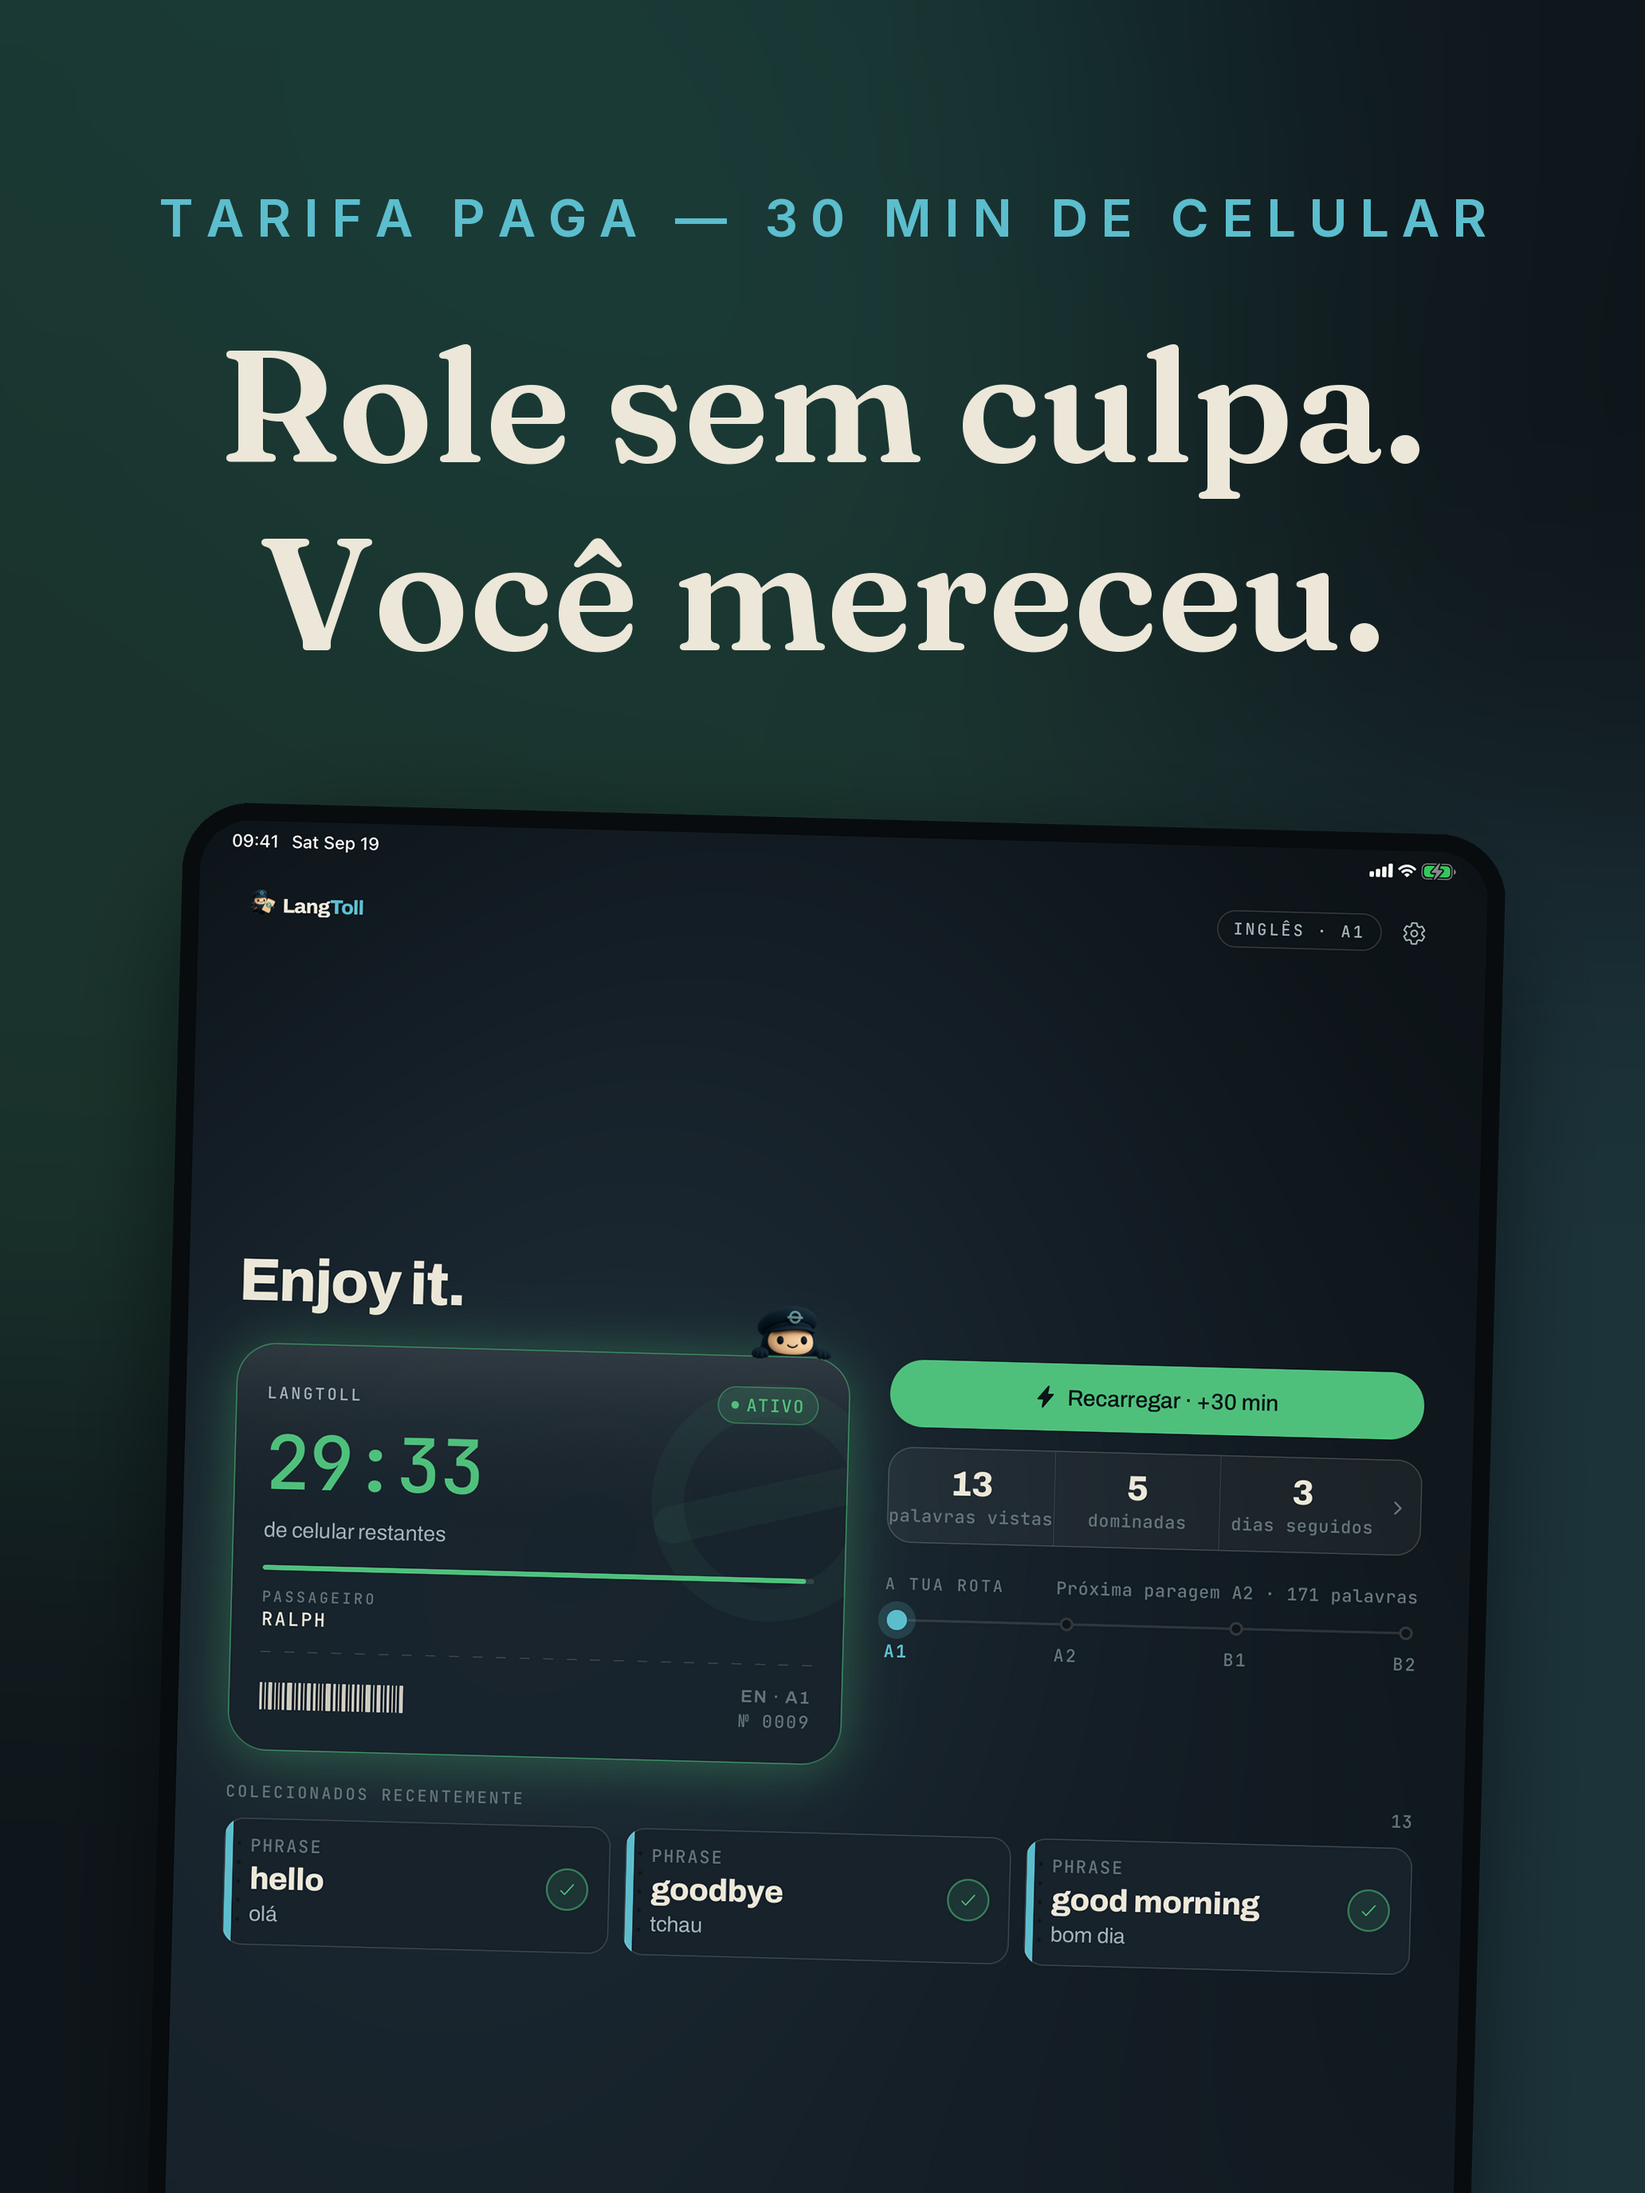
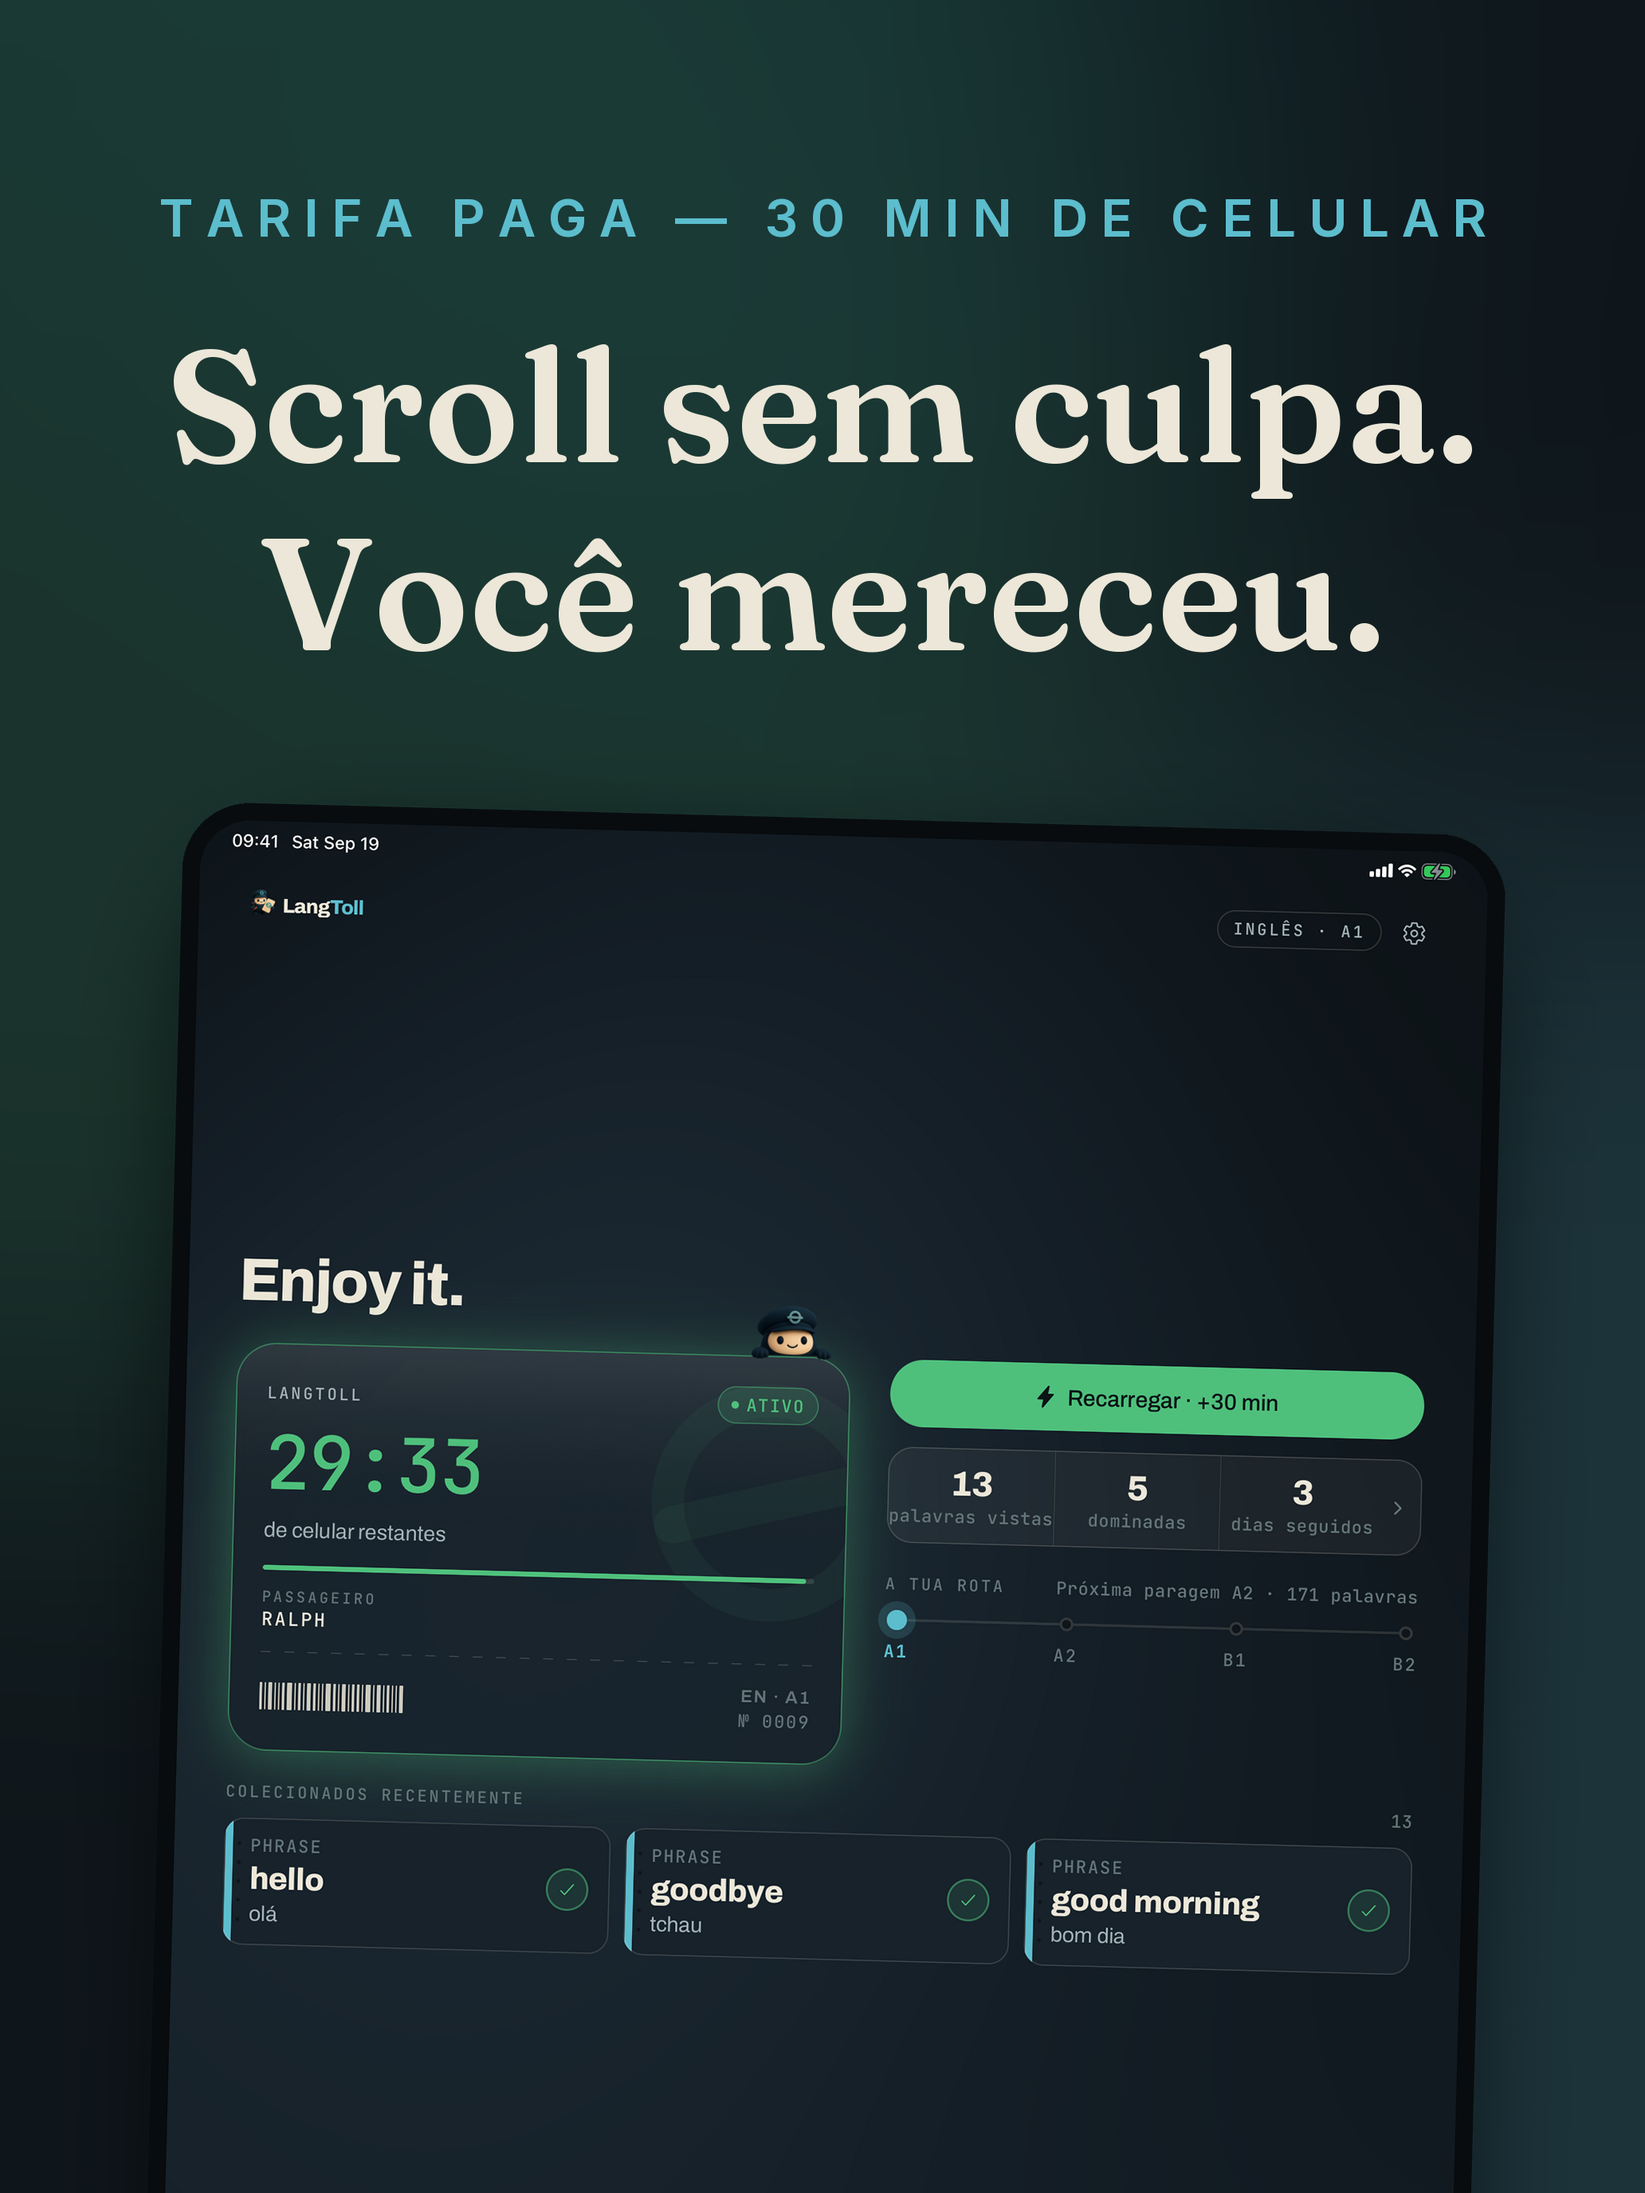
Store shots pt: "Scroll sem culpa" (was "Role sem culpa")
Claude-Session: https://claude.ai/code/session_01PwS6CHzCTzaJvz9zueakFw

Changed region(s): [[0.093, 0.1562, 0.5271, 0.2188], [0.5581, 0.1562, 0.8992, 0.25]]

diff --git a/langtoll-mobile/marketing/appstore/store_shots.py b/langtoll-mobile/marketing/appstore/store_shots.py
@@ -498,7 +498,7 @@ CAPTIONS = {
         "03_practice": ("frases inteiras desde o primeiro dia",
                         "Fale em frases,\nnão em palavras soltas"),
         "04_pass": ("tarifa paga — 30 min de celular",
-                    "Role sem culpa.\nVocê mereceu."),
+                    "Scroll sem culpa.\nVocê mereceu."),
         "05_wallet": ("cada desbloqueio deixa palavras",
                       "Seus minutos perdidos,\nagora vocabulário novo"),
         "06_hook": ("um idioma novo, sem força de vontade",
